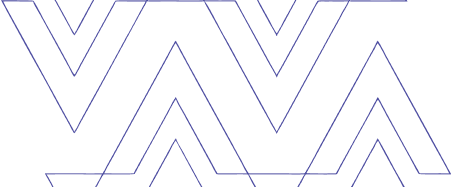
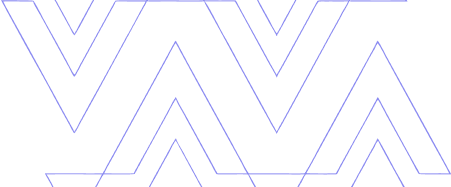
chore: alteração pag 404

diff --git a/style.css b/style.css
@@ -1,20 +1,13 @@
 /*
-Theme Name: Corrida Coopanest
-Author: tzadoque
-Version: 1.0
+Theme Name: 3ª Corrida COOPANEST-RN
+Theme URI: https://hcsports.com.br
+Author: HC Sports
+Description: Tema profissional para eventos esportivos.
+Version: 1.0.0
+Text Domain: coopanest
 */
 
-.faq-item {
-  border-radius: 6px;
-  padding: 40px 32px;
-  background-color: #ffffff;
-  transition: background-color 0.3s;
-}
-
-.faq-item.active {
-  background-color: #FFAA0D;
-}
-
-.faq-item.active * {
-  color: #000055;
-}
+/* Reset básico para evitar conflitos com Tailwind */
+@tailwind base;
+@tailwind components;
+@tailwind utilities;

diff --git a/footer.php b/footer.php
@@ -3,7 +3,7 @@
         <div class="grid grid-cols-1 md:grid-cols-3 gap-12 pb-12 border-b border-white/10">
 
             <div class="flex flex-col items-center md:items-start">
-                <img src="<?php echo get_template_directory_uri(); ?>/img/logo-coopanest-white.png" alt="3ª Corrida COOPANEST-RN" class="h-16 mb-6">
+                <img src="<?php echo get_template_directory_uri(); ?>/assets/img/logo-coopanest-white.png" alt="3ª Corrida COOPANEST-RN" class="h-16 mb-6">
                 <p class="text-gray-400 text-sm text-center md:text-left leading-relaxed">
                     A maior celebração do esporte e integração da COOPANEST-RN.
                 </p>
@@ -39,7 +39,7 @@
             <div class="flex items-center gap-3">
                 <span class="text-gray-500 text-[10px] uppercase font-bold tracking-widest">Produzido por:</span>
                 <a href="https://hcsports.com.br" target="_blank" rel="noopener">
-                    <img src="https://www.hcsports.com.br/lovable-uploads/a0c35a1e-3016-496d-9041-44bbdaf85f79.png" alt="HC Sports" class="h-6">
+                    <img src="<?php echo get_template_directory_uri(); ?>/assets/img/hc-sports.png" alt="HC Sports" class="h-6">
                 </a>
             </div>
         </div>

diff --git a/functions.php b/functions.php
@@ -13,3 +13,18 @@ function coopanest_maintenance_mode()
     }
 }
 add_action('template_redirect', 'coopanest_maintenance_mode');
+
+
+
+function coopanest_scripts()
+{
+    // 1. Tailwind CSS via CDN (Crucial para renderizar as classes que usamos)
+    wp_enqueue_style('tailwind-cdn', 'https://cdn.tailwindcss.com', array(), null);
+
+    // 2. Estilo principal do tema (style.css na raiz do tema)
+    wp_enqueue_style('coopanest-main-style', get_stylesheet_uri(), array('tailwind-cdn'), '1.0.0');
+
+    // 3. Script para o Menu e Galerias (localizado na pasta /js/)
+    wp_enqueue_script('coopanest-scripts', get_template_directory_uri() . '/js/main.js', array(), '1.0.0', true);
+}
+add_action('wp_enqueue_scripts', 'coopanest_scripts');

diff --git a/header.php b/header.php
@@ -27,7 +27,7 @@
                         if (has_custom_logo()) {
                             the_custom_logo();
                         } else {
-                            echo '<img src="' . get_template_directory_uri() . '/img/logo-coopanest-rn.png" alt="' . get_bloginfo('name') . '" class="h-10 md:h-14 w-auto object-contain">';
+                            echo '<img src="' . get_template_directory_uri() . '/assets/img/logo-coopanest-rn.png" alt="' . get_bloginfo('name') . '" class="h-10 md:h-14 w-auto object-contain">';
                         }
                         ?>
                     </a>

diff --git a/index.php b/index.php
@@ -2,7 +2,7 @@
 
 <main class="min-h-[70vh] flex items-center justify-center bg-gray-50 relative overflow-hidden">
     <div class="absolute inset-0 opacity-5 pointer-events-none"
-        style="background-image: url('<?php echo get_template_directory_uri(); ?>/img/pattern-vava-fill.png'); background-size: 200px;">
+        style="background-image: url('<?php echo get_template_directory_uri(); ?>/assets/img/pattern-vava-fill.png'); background-size: 200px;">
     </div>
 
     <div class="container mx-auto px-4 relative z-10">
